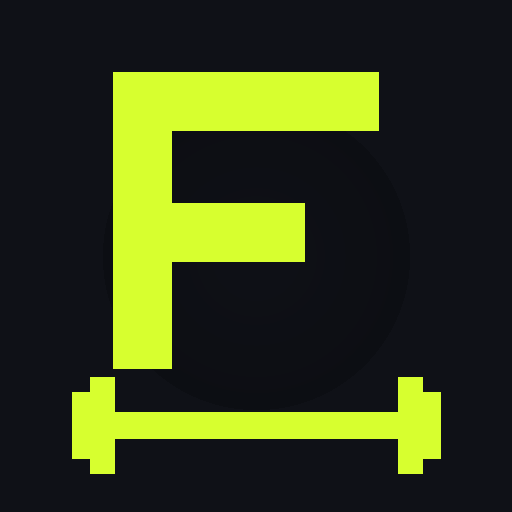
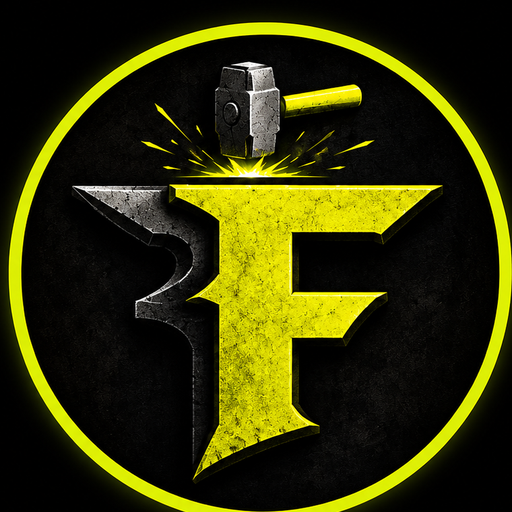
Add files via upload

diff --git a/index.html b/index.html
@@ -37,7 +37,7 @@ function generateAppIcon(size){
   return c.toDataURL('image/png');
 }
 function setupPWA(){
-  if('serviceWorker' in navigator){
+  if('serviceWorker' in navigator && location.protocol==='https:'){
     const sw=`const CACHE='forge-sw-v1';
 self.addEventListener('install',e=>{e.waitUntil(self.skipWaiting());});
 self.addEventListener('activate',e=>{e.waitUntil(caches.keys().then(ks=>Promise.all(ks.filter(k=>k!==CACHE).map(k=>caches.delete(k)))).then(()=>self.clients.claim()));});
@@ -50,8 +50,8 @@ self.addEventListener('fetch',e=>{
       const blob=new Blob([sw],{type:'application/javascript'});
       navigator.serviceWorker.register(URL.createObjectURL(blob),{scope:'/Forge-gym-app/'})
         .then(()=>console.log('FORGE: Service worker registered'))
-        .catch(e=>console.warn('FORGE: SW not supported from local file -',e.message));
-    }catch(e){console.warn('SW blob failed:',e);}
+        .catch(()=>{});
+    }catch(e){}
   }
 }
 document.addEventListener('DOMContentLoaded',setupPWA);
@@ -118,11 +118,15 @@ select option{background:var(--bg3);}textarea{resize:none;min-height:70px;}
 .r-card-last{font-size:12px;color:var(--text3);}
 .r-overflow-btn{width:32px;height:32px;border-radius:8px;border:none;background:transparent;color:var(--text3);font-size:20px;cursor:pointer;display:flex;align-items:center;justify-content:center;transition:background 0.15s;flex-shrink:0;}
 .r-overflow-btn:active{background:var(--bg4);}
-.r-dropdown{position:absolute;right:14px;top:50px;background:var(--bg3);border:1px solid var(--border);border-radius:12px;overflow:hidden;z-index:50;min-width:160px;box-shadow:0 8px 24px rgba(0,0,0,0.5);display:none;}
+.r-dropdown{position:fixed;background:var(--bg3);border:1px solid var(--border);border-radius:12px;overflow:hidden;z-index:999;min-width:180px;box-shadow:0 8px 32px rgba(0,0,0,0.6);display:none;}
 .r-dropdown.open{display:block;}
-.r-dropdown-item{padding:12px 16px;font-size:14px;font-weight:500;cursor:pointer;transition:background 0.1s;display:flex;align-items:center;gap:10px;}
+.r-dropdown-item{padding:13px 16px;font-size:14px;font-weight:500;cursor:pointer;transition:background 0.1s;display:flex;align-items:center;gap:10px;}
 .r-dropdown-item:active{background:var(--bg4);}
 .r-dropdown-item.danger{color:var(--red);}
+.drag-handle{opacity:0.4;user-select:none;}
+.drag-handle:active{opacity:0.9;cursor:grabbing;}
+.routine-dragging{opacity:0.4;transform:scale(0.98);}
+.routine-drag-over{border-top:2px solid var(--accent)!important;}
 /* TODAY CARD */
 .today-card{background:var(--bg2);border-radius:var(--radius);margin:0 16px 16px;padding:20px;box-shadow:0 0 0 1px var(--accent)44,0 8px 32px rgba(215,255,47,0.12);position:relative;overflow:hidden;}
 .today-label{font-size:11px;font-weight:700;letter-spacing:1.5px;color:var(--accent);text-transform:uppercase;margin-bottom:10px;}
@@ -332,12 +336,7 @@ body.light-mode{--bg:#F0F2F5;--bg2:#FFFFFF;--bg3:#E8EAF0;--bg4:#D8DCE8;--text:#0
       <div class="qs-card" onclick="switchTab('settings')"><div class="qs-icon">⚙️</div><div class="qs-label">Settings</div></div>
     </div>
   </div>
-  <div class="bottom-nav"><div class="bottom-nav"><div class="nav-item" data-tab="routines" onclick="switchTab('routines')"><svg viewBox="0 0 24 24" fill="none" stroke="currentColor" stroke-width="2"><rect x="3" y="3" width="7" height="7"/><rect x="14" y="3" width="7" height="7"/><rect x="3" y="14" width="7" height="7"/><rect x="14" y="14" width="7" height="7"/></svg>Routines</div>
-<div class="nav-item" data-tab="history" onclick="switchTab('history')"><svg viewBox="0 0 24 24" fill="none" stroke="currentColor" stroke-width="2"><circle cx="12" cy="12" r="10"/><path d="M12 6v6l4 2"/></svg>History</div>
-<div class="nav-item" data-tab="exercises" onclick="switchTab('exercises')"><svg viewBox="0 0 24 24" fill="none" stroke="currentColor" stroke-width="2"><path d="M6 5v14M18 5v14M2 9h4M18 9h4M2 15h4M18 15h4"/></svg>Exercises</div>
-<div class="nav-item" data-tab="review" onclick="switchTab('review')"><svg viewBox="0 0 24 24" fill="none" stroke="currentColor" stroke-width="2"><path d="M3 3v18h18"/><path d="M7 16l4-4 4 4 4-8"/></svg>Review</div>
-<div class="nav-item" data-tab="settings" onclick="switchTab('settings')"><svg viewBox="0 0 24 24" fill="none" stroke="currentColor" stroke-width="2"><circle cx="12" cy="12" r="3"/><path d="M12 2v2M12 20v2M4.22 4.22l1.42 1.42M18.36 18.36l1.42 1.42M2 12h2M20 12h2M4.22 19.78l1.42-1.42M18.36 5.64l1.42-1.42"/></svg>Settings</div></div></div>
-</div>
+  <div class="bottom-nav" id="nav-routines"><div class="nav-item" data-tab="routines" onclick="switchTab('routines')"><svg viewBox="0 0 24 24" fill="none" stroke="currentColor" stroke-width="2"><rect x="3" y="3" width="7" height="7"/><rect x="14" y="3" width="7" height="7"/><rect x="3" y="14" width="7" height="7"/><rect x="14" y="14" width="7" height="7"/></svg>Routines</div><div class="nav-item" data-tab="history" onclick="switchTab('history')"><svg viewBox="0 0 24 24" fill="none" stroke="currentColor" stroke-width="2"><circle cx="12" cy="12" r="10"/><path d="M12 6v6l4 2"/></svg>History</div><div class="nav-item" data-tab="exercises" onclick="switchTab('exercises')"><svg viewBox="0 0 24 24" fill="none" stroke="currentColor" stroke-width="2"><path d="M6 5v14M18 5v14M2 9h4M18 9h4M2 15h4M18 15h4"/></svg>Exercises</div><div class="nav-item" data-tab="review" onclick="switchTab('review')"><svg viewBox="0 0 24 24" fill="none" stroke="currentColor" stroke-width="2"><path d="M3 3v18h18"/><path d="M7 16l4-4 4 4 4-8"/></svg>Review</div><div class="nav-item" data-tab="settings" onclick="switchTab('settings')"><svg viewBox="0 0 24 24" fill="none" stroke="currentColor" stroke-width="2"><circle cx="12" cy="12" r="3"/><path d="M12 2v2M12 20v2M4.22 4.22l1.42 1.42M18.36 18.36l1.42 1.42M2 12h2M20 12h2M4.22 19.78l1.42-1.42M18.36 5.64l1.42-1.42"/></svg>Settings</div></div>
 
 
 <!-- ACTIVE WORKOUT -->
@@ -962,8 +961,14 @@ function showPRToast(name){
 }
 
 // ── NAV ──
-const NAV_HTML=document.querySelector('.bottom-nav').innerHTML;
-function initNavs(){['routines','history','exercises','review','settings'].forEach(tab=>{const el=document.getElementById('nav-'+tab);if(el)el.innerHTML=NAV_HTML;});updateNavActive('routines');}
+const NAV_HTML='<div class="nav-item" data-tab="routines" onclick="switchTab(\'routines\')"><svg viewBox="0 0 24 24" fill="none" stroke="currentColor" stroke-width="2"><rect x="3" y="3" width="7" height="7"/><rect x="14" y="3" width="7" height="7"/><rect x="3" y="14" width="7" height="7"/><rect x="14" y="14" width="7" height="7"/></svg>Routines</div><div class="nav-item" data-tab="history" onclick="switchTab(\'history\')"><svg viewBox="0 0 24 24" fill="none" stroke="currentColor" stroke-width="2"><circle cx="12" cy="12" r="10"/><path d="M12 6v6l4 2"/></svg>History</div><div class="nav-item" data-tab="exercises" onclick="switchTab(\'exercises\')"><svg viewBox="0 0 24 24" fill="none" stroke="currentColor" stroke-width="2"><path d="M6 5v14M18 5v14M2 9h4M18 9h4M2 15h4M18 15h4"/></svg>Exercises</div><div class="nav-item" data-tab="review" onclick="switchTab(\'review\')"><svg viewBox="0 0 24 24" fill="none" stroke="currentColor" stroke-width="2"><path d="M3 3v18h18"/><path d="M7 16l4-4 4 4 4-8"/></svg>Review</div><div class="nav-item" data-tab="settings" onclick="switchTab(\'settings\')"><svg viewBox="0 0 24 24" fill="none" stroke="currentColor" stroke-width="2"><circle cx="12" cy="12" r="3"/><path d="M12 2v2M12 20v2M4.22 4.22l1.42 1.42M18.36 18.36l1.42 1.42M2 12h2M20 12h2M4.22 19.78l1.42-1.42M18.36 5.64l1.42-1.42"/></svg>Settings</div>';
+function initNavs(){
+  ['routines','history','exercises','review','settings'].forEach(tab=>{
+    const el=document.getElementById('nav-'+tab);
+    if(el)el.innerHTML=NAV_HTML;
+  });
+  updateNavActive('routines');
+}
 function updateNavActive(tab){document.querySelectorAll('.nav-item').forEach(n=>n.classList.toggle('active',n.getAttribute('data-tab')===tab));}
 function switchTab(tab){
   document.querySelectorAll('.screen').forEach(s=>s.classList.remove('active'));
@@ -1469,83 +1474,135 @@ function renderRoutinesList(){
     list.innerHTML='<div style="padding:8px 16px"><div class="empty-state"><div class="empty-icon"></div><div class="empty-title">No Routines Yet</div><div class="empty-sub">Tap + to create one</div><button class="btn btn-ghost" style="margin-top:14px" onclick="loadExampleRoutines()">📋 Load Example Routines</button></div></div>';
     return;
   }
-  // Group into folders
-  const folders={};
-  state.routines.forEach((r,i)=>{
-    const cat=getFolderCategory(r);
-    if(!folders[cat])folders[cat]=[];
-    folders[cat].push({r,i});
-  });
   list.innerHTML='';
-  Object.entries(folders).forEach(([cat,items])=>{
-    const col=getRoutineColor(items[0].r);
-    const muscat=getRoutineMuscleCategory(items[0].r);
-    const svg=getMuscleIconSVG(muscat,col);
-    const folderId='folder-'+cat.replace(/[^a-z0-9]/gi,'_');
-    const isOpen=items.length<=3;
-    const fi=getFolderIcon(cat);
-    const wrap=document.createElement('div');
-    wrap.className='folder-wrap';
-    let cardsHtml=items.map(({r,i})=>{
-      const n=(r.exerciseIds||[]).length;
-      const est=estimateRoutineTime(r.exerciseIds||[]);
-      const rcol=getRoutineColor(r);
-      const rmuscat=getRoutineMuscleCategory(r);
-      const rfi=getFolderIcon(rmuscat);
-      const lastW=state.history.filter(w=>{const ids=w.exercises.map(e=>e.exId);return(r.exerciseIds||[]).length>0&&(r.exerciseIds||[]).every(id=>ids.includes(id));}).sort((a,b)=>new Date(b.date)-new Date(a.date))[0];
-      const lastStr=lastW?'Last: <span style="color:var(--accent)">'+daysAgo(lastW.date)+'</span>':'Never performed';
-      return '<div style="position:relative">'
-        +'<div onclick="handleCardClick(event,'+i+')" style="display:flex;align-items:center;gap:0;padding:0;background:var(--bg2);border-bottom:1px solid var(--border);cursor:pointer;transition:background 0.15s;" onmouseenter="this.style.background=\'var(--bg3)\'" onmouseleave="this.style.background=\'var(--bg2)\'">'
-        +'<div style="width:4px;background:'+rcol+';align-self:stretch;flex-shrink:0"></div>'
-        +'<div style="width:42px;height:42px;border-radius:10px;background:'+rcol+'18;border:1px solid '+rcol+'30;display:flex;align-items:center;justify-content:center;flex-shrink:0;margin:14px 12px">'
-        +getCategoryIconSVG(rmuscat,20,rcol)
-        +'</div>'
-        +'<div style="flex:1;min-width:0;padding:12px 0;">'
-        +'<div style="font-weight:700;font-size:15px;color:var(--text)">'+escHtml(r.name)+'</div>'
-        +(r.desc?'<div style="font-size:12px;color:var(--text2);margin-top:2px">'+escHtml(r.desc)+'</div>':'')
-        +'<div style="display:flex;gap:7px;margin-top:8px;flex-wrap:wrap">'
-        +'<span class="r-chip">'+uiIcon('grid',11,'currentColor')+''+n+' Exercise'+(n!==1?'s':'')+'</span>'
-        +(est?'<span class="r-chip">'+uiIcon('clock',11,'currentColor')+''+est+'</span>':'')
-        +'</div>'
-        +'<div style="font-size:11px;color:var(--text3);margin-top:6px">'+lastStr+'</div>'
-        +'</div>'
-        +'<button onclick="toggleDropdown(event,'+i+')" style="width:36px;height:36px;border-radius:8px;border:none;background:transparent;color:var(--text3);font-size:20px;cursor:pointer;display:flex;align-items:center;justify-content:center;margin-right:8px;align-self:center;flex-shrink:0">'
-        +''+uiIcon('dots',16,'currentColor')+''
-        +'</button>'
-        +'</div>'
-        +'<div class="r-dropdown" id="rdrop-'+i+'">'
-        +'<div class="r-dropdown-item" onclick="openRoutineDetail('+i+');closeAllDropdowns()">'+uiIcon('eye',15,'currentColor')+' View</div>'
-        +'<div class="r-dropdown-item" onclick="startRoutineWorkout('+i+');closeAllDropdowns()">'+uiIcon('play',15,'currentColor')+' Start Workout</div>'
-        +'<div class="r-dropdown-item" onclick="openEditRoutineModal_fromList('+i+');closeAllDropdowns()">'+uiIcon('pencil',15,'currentColor')+' Edit</div>'
-        +'<div class="r-dropdown-item" onclick="duplicateRoutine('+i+');closeAllDropdowns()">'+uiIcon('copy',15,'currentColor')+' Duplicate</div>'
-        +'<div class="r-dropdown-item danger" onclick="deleteRoutine('+i+');closeAllDropdowns()">'+uiIcon('trash',15,'currentColor')+' Delete</div>'
-        +'</div></div>';
-    }).join('');
+  state.routines.forEach((r,i)=>{
+    const n=(r.exerciseIds||[]).length;
+    const est=estimateRoutineTime(r.exerciseIds||[]);
+    const rcol=getRoutineColor(r);
+    const rmuscat=getRoutineMuscleCategory(r);
+    const lastW=state.history.filter(w=>{const ids=w.exercises.map(e=>e.exId);return(r.exerciseIds||[]).length>0&&(r.exerciseIds||[]).every(id=>ids.includes(id));}).sort((a,b)=>new Date(b.date)-new Date(a.date))[0];
+    const lastStr=lastW?'Last: <span style="color:var(--accent)">'+daysAgo(lastW.date)+'</span>':'Never performed';
 
-    wrap.innerHTML='<div class="folder-header '+(isOpen?'open':'')+'" onclick="toggleFolder(\''+folderId+'\')">'
-      +'<div class="folder-title">'
-      +'<div style="width:34px;height:34px;border-radius:9px;background:'+fi.color+'18;border:1px solid '+fi.color+'30;display:flex;align-items:center;justify-content:center">'
-      +getCategoryIconSVG(cat,18,fi.color)
+    const wrap=document.createElement('div');
+    wrap.style.cssText='position:relative;margin:0 16px 10px;';
+    wrap.setAttribute('data-routine-idx',i);
+    wrap.innerHTML=
+      '<div onclick="handleCardClick(event,'+i+')" style="display:flex;align-items:center;gap:0;padding:0;background:var(--bg2);border-radius:var(--radius);border:1px solid var(--border);box-shadow:var(--shadow);cursor:pointer;overflow:hidden;transition:background 0.15s;">'
+      // colour bar
+      +'<div style="width:4px;background:'+rcol+';align-self:stretch;flex-shrink:0;border-radius:var(--radius) 0 0 var(--radius)"></div>'
+      // icon
+      +'<div style="width:42px;height:42px;border-radius:10px;background:'+rcol+'18;border:1px solid '+rcol+'30;display:flex;align-items:center;justify-content:center;flex-shrink:0;margin:14px 10px">'
+      +getCategoryIconSVG(rmuscat,20,rcol)
       +'</div>'
-      +escHtml(cat)+'</div>'
-      +'<div style="display:flex;align-items:center;gap:8px">'
-      +'<span class="folder-meta">'+items.length+' routine'+(items.length!==1?'s':'')+'</span>'
-      +'<span class="folder-arrow">›</span>'
-      +'</div></div>'
-      +'<div class="folder-body '+(isOpen?'open':'')+'" id="'+folderId+'">'+cardsHtml+'</div>';
+      // text
+      +'<div style="flex:1;min-width:0;padding:13px 0;">'
+      +'<div style="font-weight:700;font-size:15px;color:var(--text)">'+escHtml(r.name)+'</div>'
+      +(r.desc?'<div style="font-size:12px;color:var(--text2);margin-top:2px">'+escHtml(r.desc)+'</div>':'')
+      +'<div style="display:flex;gap:7px;margin-top:8px;flex-wrap:wrap">'
+      +'<span class="r-chip">'+uiIcon('grid',11,'currentColor')+' '+n+' Exercise'+(n!==1?'s':'')+'</span>'
+      +(est?'<span class="r-chip">'+uiIcon('clock',11,'currentColor')+' '+est+'</span>':'')
+      +'</div>'
+      +'<div style="font-size:11px;color:var(--text3);margin-top:6px">'+lastStr+'</div>'
+      +'</div>'
+      // drag handle + overflow
+      +'<div style="display:flex;flex-direction:column;align-items:center;gap:2px;margin-right:6px;flex-shrink:0;">'
+      +'<div class="drag-handle" data-idx="'+i+'" style="padding:6px 6px;cursor:grab;color:var(--text3);font-size:18px;line-height:1;touch-action:none;">⠿</div>'
+      +'<button onclick="toggleDropdown(event,'+i+')" style="width:32px;height:32px;border-radius:8px;border:none;background:transparent;color:var(--text2);cursor:pointer;display:flex;align-items:center;justify-content:center;">'
+      +uiIcon('dots',16,'currentColor')
+      +'</button>'
+      +'</div>'
+      +'</div>'
+      // dropdown — position:fixed so it's always on top
+      +'<div class="r-dropdown" id="rdrop-'+i+'">'
+      +'<div class="r-dropdown-item" onclick="openRoutineDetail('+i+');closeAllDropdowns()">'+uiIcon('eye',15,'currentColor')+' View</div>'
+      +'<div class="r-dropdown-item" onclick="startRoutineWorkout('+i+');closeAllDropdowns()">'+uiIcon('play',15,'currentColor')+' Start Workout</div>'
+      +'<div class="r-dropdown-item" onclick="openEditRoutineModal_fromList('+i+');closeAllDropdowns()">'+uiIcon('pencil',15,'currentColor')+' Edit</div>'
+      +'<div class="r-dropdown-item" onclick="duplicateRoutine('+i+');closeAllDropdowns()">'+uiIcon('copy',15,'currentColor')+' Duplicate</div>'
+      +'<div class="r-dropdown-item danger" onclick="deleteRoutine('+i+');closeAllDropdowns()">'+uiIcon('trash',15,'currentColor')+' Delete</div>'
+      +'</div>';
     list.appendChild(wrap);
   });
+  initDragSort();
 }
-function toggleFolder(id){
-  const body=document.getElementById(id);
-  const header=body?body.previousElementSibling:null;
-  if(!body)return;
-  body.classList.toggle('open');
-  if(header)header.classList.toggle('open');
+function toggleFolder(id){}// kept for compat, no-op
+function handleCardClick(e,i){if(e.target.closest('[onclick*="toggleDropdown"]')||e.target.closest('.r-dropdown')||e.target.closest('.drag-handle'))return;closeAllDropdowns();openRoutineDetail(i);}
+
+function toggleDropdown(e,i){
+  e.stopPropagation();
+  const wasOpen=document.getElementById('rdrop-'+i).classList.contains('open');
+  closeAllDropdowns();
+  if(wasOpen)return;
+  const btn=e.currentTarget;
+  const rect=btn.getBoundingClientRect();
+  const drop=document.getElementById('rdrop-'+i);
+  drop.style.display='block';
+  // Position below the button, aligned right
+  const dropW=200;
+  let left=rect.right-dropW;
+  if(left<8)left=8;
+  let top=rect.bottom+6;
+  // If it would go off bottom, show above
+  const dropH=drop.offsetHeight||220;
+  if(top+dropH>window.innerHeight-10)top=rect.top-dropH-6;
+  drop.style.left=left+'px';
+  drop.style.top=top+'px';
+  drop.style.width=dropW+'px';
+  drop.classList.add('open');
+  // Close on outside tap
+  setTimeout(()=>document.addEventListener('click',closeAllDropdowns,{once:true}),10);
 }
-function handleCardClick(e,i){if(e.target.closest('[onclick*="toggleDropdown"]')||e.target.closest('.r-dropdown'))return;closeAllDropdowns();openRoutineDetail(i);}
-function toggleDropdown(e,i){e.stopPropagation();closeAllDropdowns();const d=document.getElementById('rdrop-'+i);if(d)d.classList.toggle('open');}
+
 function closeAllDropdowns(){document.querySelectorAll('.r-dropdown.open').forEach(d=>d.classList.remove('open'));}
+
+// ── DRAG TO REORDER ROUTINES ──
+function initDragSort(){
+  const list=document.getElementById('routines-list');
+  let dragIdx=null,dragEl=null;
+
+  list.querySelectorAll('.drag-handle').forEach(handle=>{
+    handle.addEventListener('touchstart',e=>{
+      const idx=parseInt(handle.getAttribute('data-idx'));
+      dragIdx=idx;
+      dragEl=handle.closest('[data-routine-idx]');
+      dragEl.classList.add('routine-dragging');
+      e.preventDefault();
+    },{passive:false});
+  });
+
+  list.addEventListener('touchmove',e=>{
+    if(dragIdx===null)return;
+    e.preventDefault();
+    const touch=e.touches[0];
+    const els=[...list.querySelectorAll('[data-routine-idx]')];
+    let target=null;
+    els.forEach(el=>{
+      el.classList.remove('routine-drag-over');
+      const r=el.getBoundingClientRect();
+      if(touch.clientY>=r.top&&touch.clientY<=r.bottom)target=el;
+    });
+    if(target&&target!==dragEl)target.classList.add('routine-drag-over');
+  },{passive:false});
+
+  list.addEventListener('touchend',e=>{
+    if(dragIdx===null)return;
+    const touch=e.changedTouches[0];
+    const els=[...list.querySelectorAll('[data-routine-idx]')];
+    let targetIdx=dragIdx;
+    els.forEach(el=>{
+      el.classList.remove('routine-drag-over','routine-dragging');
+      const r=el.getBoundingClientRect();
+      if(touch.clientY>=r.top&&touch.clientY<=r.bottom){
+        targetIdx=parseInt(el.getAttribute('data-routine-idx'));
+      }
+    });
+    if(targetIdx!==dragIdx){
+      const moved=state.routines.splice(dragIdx,1)[0];
+      state.routines.splice(targetIdx,0,moved);
+      save();renderRoutinesList();
+    }
+    dragIdx=null;dragEl=null;
+  });
+}
 function openEditRoutineModal_fromList(i){viewingRoutineIdx=i;openEditRoutineModal();}
 function duplicateRoutine(i){
   const r=state.routines[i];